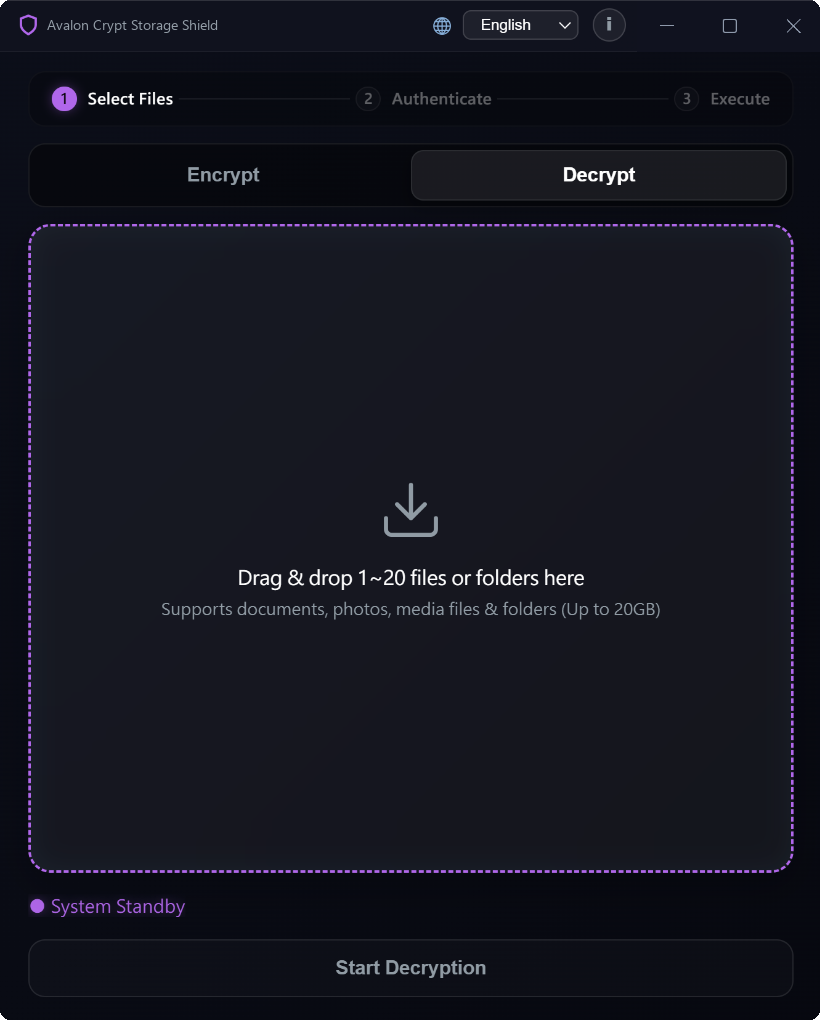
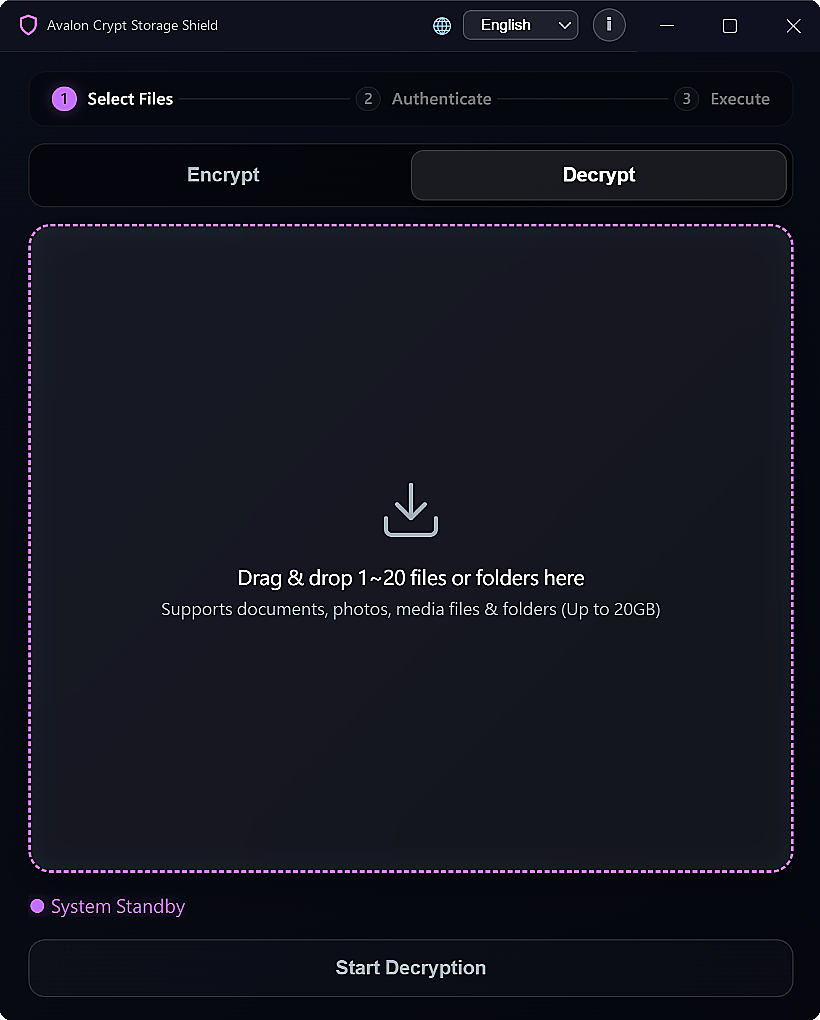
Add files via upload

diff --git a/index.html b/index.html
@@ -52,7 +52,7 @@
         }
 
         .container {
-            max-width: 1200px;
+            max-width: 1320px;
             margin: 0 auto;
             padding: 0 24px;
         }
@@ -184,7 +184,7 @@
 
         .hero-layout {
             display: grid;
-            grid-template-columns: 1.15fr 0.85fr;
+            grid-template-columns: 1fr 1.15fr;
             gap: 48px;
             align-items: center;
         }
@@ -406,109 +406,135 @@
             box-shadow: 0 0 10px var(--cyan);
         }
 
-        /* 右側雙軌即時切換視窗視覺 */
+        /* 右側雙軌即時切換視窗視覺（大幅放大＋超清 Segmented Control） */
         .hero-visual {
             display: flex;
             justify-content: center;
             align-items: center;
+            width: 100%;
         }
 
         .hero-track-container {
             width: 100%;
-            max-width: 440px;
+            max-width: 640px;
             display: flex;
             flex-direction: column;
             align-items: center;
         }
 
+        /* 物理級手感 Segmented Control 切換器 */
         .hero-track-tabs {
-            display: inline-flex;
-            background: rgba(255, 255, 255, 0.05);
-            border: 1px solid rgba(255, 255, 255, 0.12);
-            padding: 4px;
+            display: flex;
+            width: 100%;
+            max-width: 480px;
+            background: rgba(10, 14, 26, 0.9);
+            border: 1px solid rgba(255, 255, 255, 0.15);
+            padding: 5px;
             border-radius: 30px;
-            margin-bottom: 16px;
-            gap: 6px;
-            backdrop-filter: blur(10px);
+            margin-bottom: 18px;
+            gap: 8px;
+            backdrop-filter: blur(14px);
+            box-shadow: inset 0 2px 6px rgba(0, 0, 0, 0.6), 0 8px 24px rgba(0, 0, 0, 0.4);
         }
 
         .hero-track-tab {
+            flex: 1;
             background: transparent;
             border: 1px solid transparent;
             color: var(--text-muted);
-            font-size: 0.82rem;
-            font-weight: 600;
-            padding: 7px 16px;
-            border-radius: 20px;
+            font-size: 0.88rem;
+            font-weight: 700;
+            padding: 9px 18px;
+            border-radius: 24px;
             cursor: pointer;
-            transition: all 0.25s ease;
+            transition: all 0.25s cubic-bezier(0.4, 0, 0.2, 1);
             display: inline-flex;
             align-items: center;
+            justify-content: center;
             gap: 8px;
+            white-space: nowrap;
+            user-select: none;
             font-family: var(--font-main);
         }
 
         .hero-track-tab:hover {
             color: #fff;
-            background: rgba(255, 255, 255, 0.06);
+            background: rgba(255, 255, 255, 0.08);
+            transform: translateY(-2px);
+            cursor: pointer;
         }
 
         .hero-track-tab.active.cyan-tab {
-            background: rgba(0, 240, 255, 0.15);
+            background: rgba(0, 240, 255, 0.18);
             color: var(--cyan);
-            border: 1px solid rgba(0, 240, 255, 0.4);
-            box-shadow: 0 0 15px rgba(0, 240, 255, 0.25);
+            border: 1px solid rgba(0, 240, 255, 0.5);
+            box-shadow: 0 4px 20px rgba(0, 240, 255, 0.35);
+            transform: translateY(-1px);
         }
 
         .hero-track-tab.active.purple-tab {
-            background: rgba(191, 90, 242, 0.18);
+            background: rgba(191, 90, 242, 0.2);
             color: var(--purple);
-            border: 1px solid rgba(191, 90, 242, 0.4);
-            box-shadow: 0 0 15px rgba(191, 90, 242, 0.25);
+            border: 1px solid rgba(191, 90, 242, 0.5);
+            box-shadow: 0 4px 20px rgba(191, 90, 242, 0.35);
+            transform: translateY(-1px);
         }
 
         .tab-indicator {
-            width: 7px;
-            height: 7px;
+            width: 8px;
+            height: 8px;
             border-radius: 50%;
             display: inline-block;
         }
 
         .cyan-indicator {
             background: var(--cyan);
-            box-shadow: 0 0 8px var(--cyan);
+            box-shadow: 0 0 10px var(--cyan);
+            animation: pulseGlowCyan 1.8s infinite;
         }
 
         .purple-indicator {
             background: var(--purple);
-            box-shadow: 0 0 8px var(--purple);
+            box-shadow: 0 0 10px var(--purple);
+            animation: pulseGlowPurple 1.8s infinite;
         }
 
+        @keyframes pulseGlowCyan {
+            0%, 100% { transform: scale(1); opacity: 1; box-shadow: 0 0 10px var(--cyan); }
+            50% { transform: scale(1.3); opacity: 0.6; box-shadow: 0 0 16px var(--cyan); }
+        }
+
+        @keyframes pulseGlowPurple {
+            0%, 100% { transform: scale(1); opacity: 1; box-shadow: 0 0 10px var(--purple); }
+            50% { transform: scale(1.3); opacity: 0.6; box-shadow: 0 0 16px var(--purple); }
+        }
+
+        /* 視窗主體外框：放寬至 640px，高解析呈現 */
         .app-window-frame {
             width: 100%;
-            max-width: 440px;
+            max-width: 640px;
             border-radius: 14px;
             padding: 8px;
             background: linear-gradient(180deg, rgba(255, 255, 255, 0.08) 0%, rgba(255, 255, 255, 0.02) 100%);
             border: 1px solid rgba(255, 255, 255, 0.12);
-            box-shadow: 0 24px 60px rgba(0, 0, 0, 0.8);
+            box-shadow: 0 28px 70px rgba(0, 0, 0, 0.85);
             transition: transform 0.3s ease, border-color 0.4s ease, box-shadow 0.4s ease, background 0.4s ease;
             position: relative;
         }
 
         .app-window-frame:hover {
-            transform: translateY(-4px);
+            transform: translateY(-3px);
         }
 
         .app-window-frame.cyan-glow {
-            border-color: rgba(0, 240, 255, 0.35);
-            box-shadow: 0 24px 60px rgba(0, 0, 0, 0.8), 0 0 50px rgba(0, 240, 255, 0.22);
-            background: linear-gradient(180deg, rgba(0, 240, 255, 0.15) 0%, rgba(255, 255, 255, 0.02) 100%);
+            border-color: rgba(0, 240, 255, 0.4);
+            box-shadow: 0 28px 70px rgba(0, 0, 0, 0.85), 0 0 60px rgba(0, 240, 255, 0.25);
+            background: linear-gradient(180deg, rgba(0, 240, 255, 0.16) 0%, rgba(255, 255, 255, 0.02) 100%);
         }
 
         .app-window-frame.purple-glow {
-            border-color: rgba(191, 90, 242, 0.4);
-            box-shadow: 0 24px 60px rgba(0, 0, 0, 0.8), 0 0 50px rgba(191, 90, 242, 0.25);
+            border-color: rgba(191, 90, 242, 0.45);
+            box-shadow: 0 28px 70px rgba(0, 0, 0, 0.85), 0 0 60px rgba(191, 90, 242, 0.28);
             background: linear-gradient(180deg, rgba(191, 90, 242, 0.18) 0%, rgba(255, 255, 255, 0.02) 100%);
         }
 
@@ -520,6 +546,8 @@
             background: #000;
             opacity: 0;
             transition: opacity 0.3s ease;
+            image-rendering: -webkit-optimize-contrast;
+            image-rendering: crisp-edges;
         }
 
         .hero-screen.active {
@@ -1082,7 +1110,7 @@
                 <div class="hero-content">
                     <div class="hero-badge">
                         <span class="status-dot"></span>
-                        <span data-i18n="hero_badge">Post-Quantum Ready ｜ Air-Gapped Operation ｜ v1.0.3 Stable</span>
+                        <span data-i18n="hero_badge">後量子空間幾何架構 ｜ 100% 純單機離線 ｜ v1.0.3 穩定版</span>
                     </div>
                     <h1 class="hero-title" data-i18n="hero_title">
                         超越傳統 AES 體系・後量子空間幾何架構的<br><span>數位資產安全防線</span>
@@ -1136,15 +1164,15 @@
                 <!-- 右欄：整合型雙軌即時切換實機視窗 -->
                 <div class="hero-visual">
                     <div class="hero-track-container">
-                        <!-- 頂部雙軌切換按鈕 -->
+                        <!-- 頂部雙軌切換按鈕 (物理手感 Segmented Switcher) -->
                         <div class="hero-track-tabs">
                             <button class="hero-track-tab active cyan-tab" id="hero-tab-encrypt" onclick="switchHeroTrack('encrypt')">
                                 <span class="tab-indicator cyan-indicator"></span>
-                                <span data-i18n="hero_tab_encrypt">🛡 加密科技青軌 (繁中)</span>
+                                <span data-i18n="hero_tab_encrypt">🛡 青軌：加密模式 (繁中)</span>
                             </button>
                             <button class="hero-track-tab purple-tab" id="hero-tab-decrypt" onclick="switchHeroTrack('decrypt')">
                                 <span class="tab-indicator purple-indicator"></span>
-                                <span data-i18n="hero_tab_decrypt">🔓 解密防護紫軌 (English)</span>
+                                <span data-i18n="hero_tab_decrypt">🔓 紫軌：解密模式 (English)</span>
                             </button>
                         </div>
 
@@ -1413,7 +1441,7 @@
                 nav_faq: "常見問題",
                 nav_team: "J Will 團隊",
                 nav_dl_pill: "⬇ 下載 (v1.0.3)",
-                hero_badge: "Post-Quantum Ready ｜ Air-Gapped Operation ｜ v1.0.3 Stable",
+                hero_badge: "後量子空間幾何架構 ｜ 100% 純單機離線 ｜ v1.0.3 穩定版",
                 hero_title: "超越傳統 AES 體系・後量子空間幾何架構的<br><span>數位資產安全防線</span>",
                 hero_subtitle: "基於 CB Tec 後量子幾何置換架構。單機零後門、零日誌政策，支援 20GB 大檔案常數級防爆串流與雙軌智慧佇列。",
                 h_item1: "✦ 100% 離線純淨封閉運算，磁碟 0 Byte 暫存殘留",
@@ -1425,8 +1453,8 @@
                 spec_size: "大小：",
                 spec_license: "授權：",
                 btn_copy_sha: "複製校驗碼",
-                hero_tab_encrypt: "🛡 加密科技青軌 (繁中)",
-                hero_tab_decrypt: "🔓 解密防護紫軌 (English)",
+                hero_tab_encrypt: "🛡 青軌：加密模式 (繁中)",
+                hero_tab_decrypt: "🔓 紫軌：解密模式 (English)",
                 hero_tag_encrypt: "● 01_app_encrypt_zhtw.png (加密科技青軌)",
                 hero_tag_decrypt: "● 02_app_decrypt_en.png (解密防護紫軌)",
                 feat_badge: "CORE ARCHITECTURE",
@@ -1476,7 +1504,7 @@
                 nav_faq: "FAQ",
                 nav_team: "J Will Team",
                 nav_dl_pill: "⬇ Download (v1.0.3)",
-                hero_badge: "Post-Quantum Ready ｜ Air-Gapped Operation ｜ v1.0.3 Stable",
+                hero_badge: "後量子空間幾何架構 ｜ 100% 純單機離線 ｜ v1.0.3 穩定版",
                 hero_title: "Beyond Conventional AES.<br>Next-Gen Defense for Your <span>Digital Assets</span>",
                 hero_subtitle: "Engineered on proprietary CB Tec Post-Quantum Geometric Permutation Architecture. Zero backdoors, zero telemetry, constant memory streaming up to 20GB, and intelligent dual-rail queues.",
                 h_item1: "✦ 100% Offline Air-Gapped Operation, Zero-Disk Residue (0 Byte temp)",
@@ -1488,8 +1516,8 @@
                 spec_size: "Size:",
                 spec_license: "License:",
                 btn_copy_sha: "Copy SHA-256",
-                hero_tab_encrypt: "🛡 Encrypt Track (Cyan)",
-                hero_tab_decrypt: "🔓 Decrypt Track (Purple)",
+                hero_tab_encrypt: "🛡 Cyan: Encrypt Mode (zh-TW)",
+                hero_tab_decrypt: "🔓 Purple: Decrypt Mode (English)",
                 hero_tag_encrypt: "● 01_app_encrypt_zhtw.png (Cyan Encrypt Track)",
                 hero_tag_decrypt: "● 02_app_decrypt_en.png (Purple Decrypt Track)",
                 feat_badge: "CORE ARCHITECTURE",
